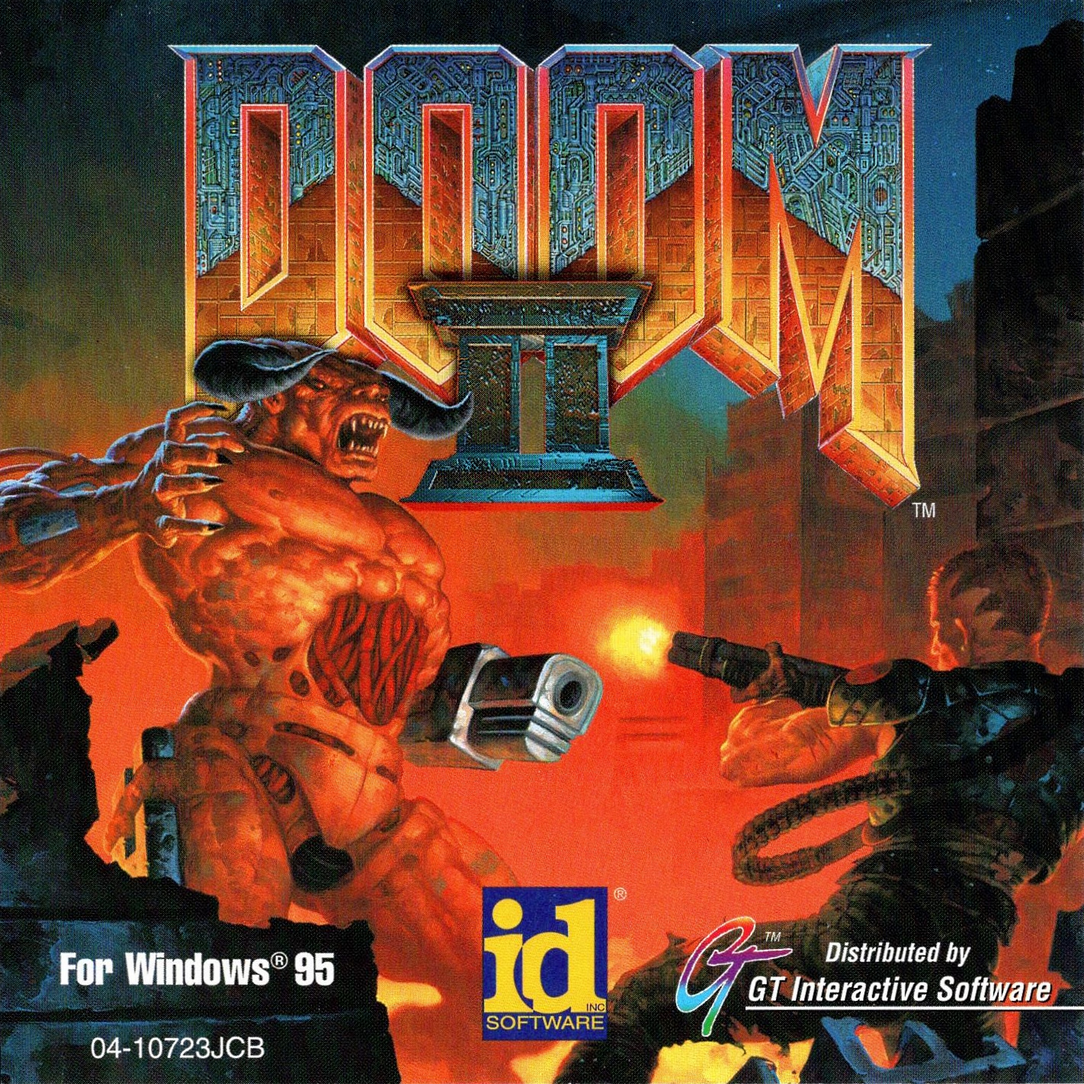
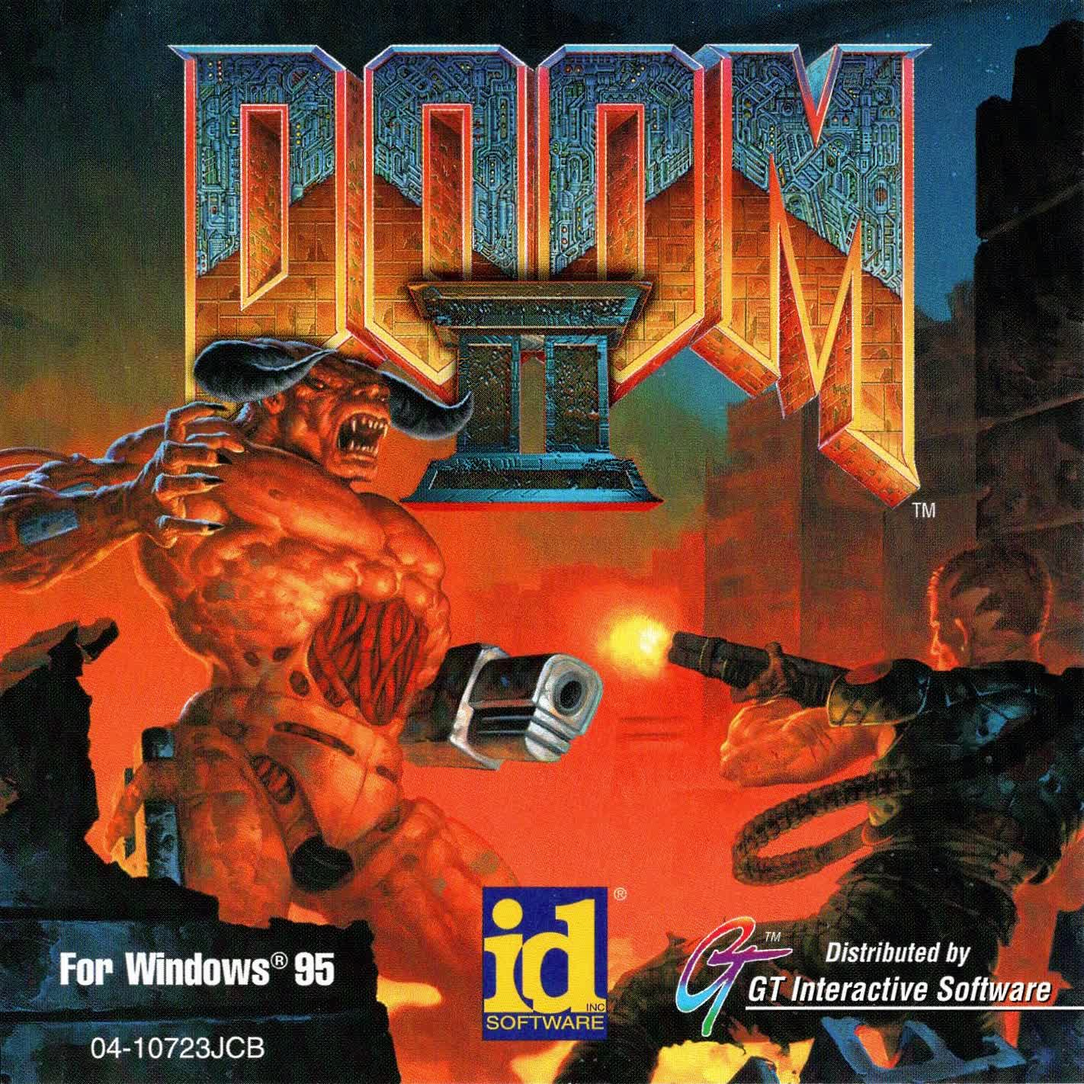
compressed larges images

diff --git a/pages/shrines/doom2.html b/pages/shrines/doom2.html
@@ -8,7 +8,7 @@
 	<link href="/css/pages/shrines/doom2.css" rel="stylesheet">
 	<script>
 		window.onload = function () {
-			document.body.style.backgroundImage = "url('/assets/img/shrines/doom2/doom2background.png')";
+			document.body.style.backgroundImage = "url('/assets/img/shrines/doom2/doom2background.jpg')";
 		}
 	</script>
 	<script>
@@ -66,7 +66,7 @@
 		function easteregg() {
 			var egg = document.getElementById("easteregg");
 			if (egg.style.display === "flex") {
-				document.body.style.backgroundImage = "url('/assets/img/shrines/doom2/doom2background.png')";
+				document.body.style.backgroundImage = "url('/assets/img/shrines/doom2/doom2background.jpg')";
 				document.body.style.animation = "";
 				egg.style.display = "none";
 			} else {
@@ -107,7 +107,7 @@
 
 		<div id="content">
 			<div id="header">
-				<img src="/assets/img/shrines/doom2/doom2logo.png" alt="DOOM2" style="width: 300px; margin: 5px;">
+				<img src="/assets/img/shrines/doom2/doom2logo.jpg" alt="DOOM2" style="width: 300px; margin: 5px;">
 			</div>
 			<div id="tabs">
 				<button class="tablinks" onclick="openTab(event, 'origins')" id="defaultOpen">

diff --git a/css/style.css b/css/style.css
@@ -191,7 +191,6 @@ body:has(#construction:hover) #paradox {
 }
 
 .sidebar-left {
-	background-color: #000;
 	position: relative;
 	background-image: linear-gradient(to right, var(--side-grad));
 	padding-left: 11px;
